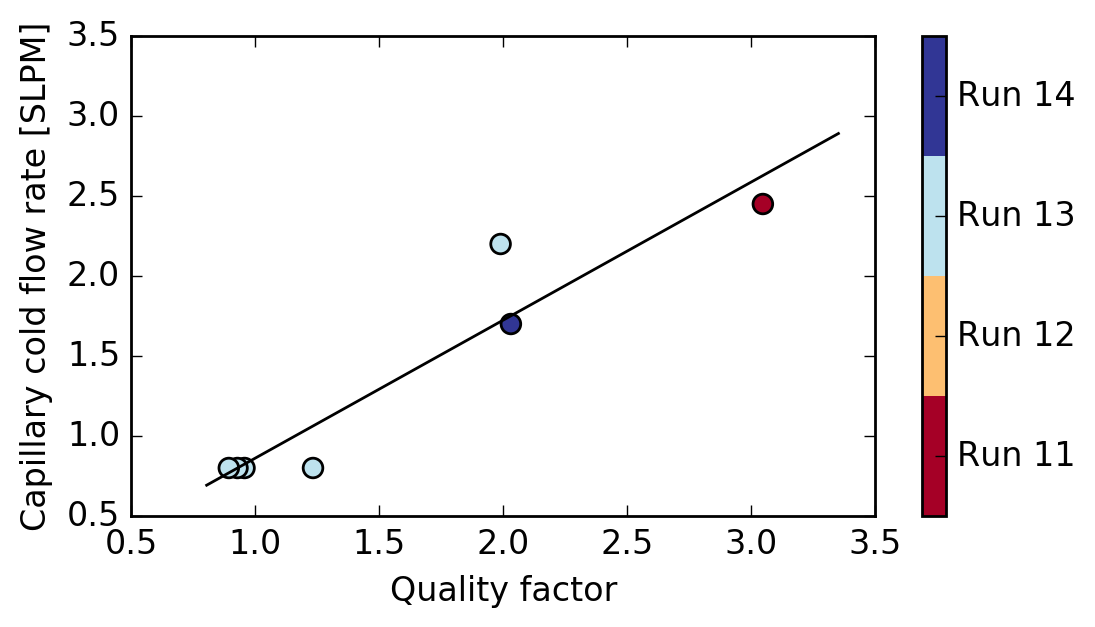
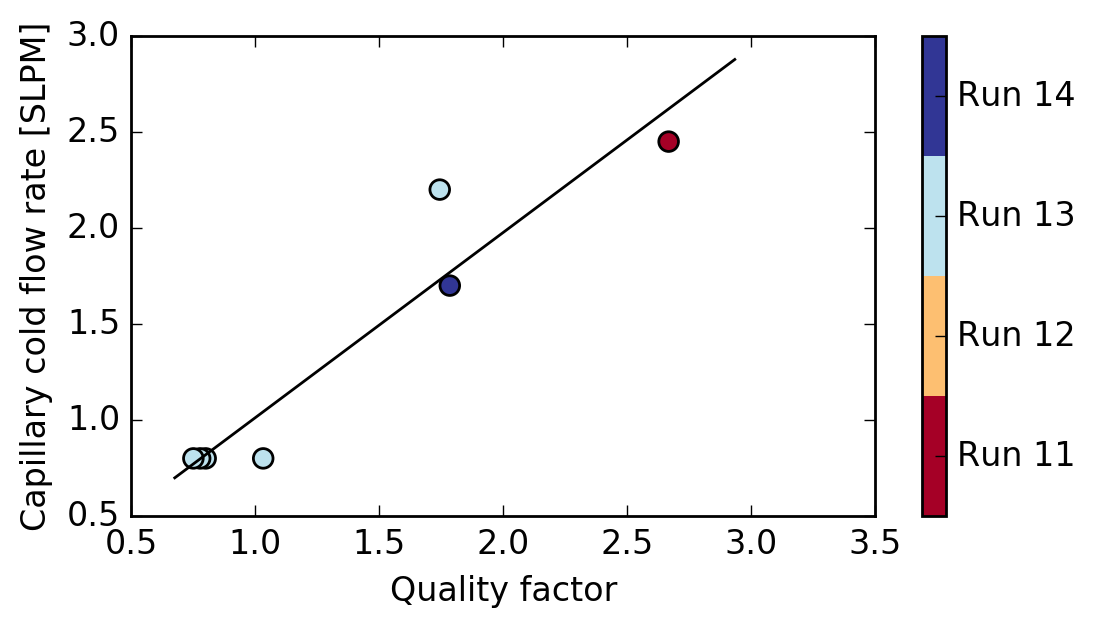
cleaning up text

diff --git a/latex/capillary.tex b/latex/capillary.tex
@@ -470,22 +470,22 @@ Finally, we note that an experimental effort that accurately maps cold flow rate
 \subsection{Quality factor}
 \label{sec:qf}
 
-The relation between warm flow impedance and superfluid flow presented above can be useful. However, we need to be able to gauge capillary health with the flight cryostat parked at 80\,K just before we intend to fill the main tank with helium. Here, things get a bit more complicated because the temperature profile of the capillaries, and therefore the temperature of the main tank and the superfluid tank have a non-negligible effect on the outcome of any flow test. Of course, our flow tests are performed by measuring pressure rise in a 300\,K volume that is isobaric to another volume wherein gas resides at a much lower temperature. All of this information should somehow be factored into physically motivated estimator that correlates with measured superfluid flow rates.
+The relation between warm flow impedance and superfluid flow presented above can be useful. However, we need to be able to gauge capillary health with the flight cryostat parked at 80\,K just before we intend to fill the main tank with helium. Here, things get a bit more complicated because the temperature profile of the capillaries, and therefore the temperature of the main tank and the superfluid tank are expected to have a non-negligible effect on the outcome of any flow test. Of course, our flow tests are performed by measuring pressure rise in a 300\,K volume that is isobaric to another volume wherein gas (presumably) resides at a much lower temperature. All of this information should somehow be factored into physically motivated estimator that correlates with measured superfluid flow rates with the cryostat at equilibrium temperatures.
 
 Unfortunately, we have limited data that we can justify using as a training set for our model. Only data from runs 11, 13, and 14 are suitable for this purpose. Using those data, we derive a dimensionless quality factor, $Q$, that scales linearly with observed superfluid flow. The physically motivated parametrization goes as
 \begin{align}
 Q &\equiv \frac{\eta (T_\mrm{cap})}{\Delta P} \frac{V_\mrm{SFT}+V_\mrm{man}}{T_\mrm{eff}} \left( \frac{d p}{d t} \right), \\
 T_\mrm{eff} &\equiv \frac{\alpha T_\mrm{SFT}+T_\mrm{room}}{1+\alpha},
 \end{align}
-where $V_\mrm{SFT}$ and $V_\mrm{man}$ represent the volume of the superfluid tank and the outside manifold, respectively, $\Delta P$ is the pressure differential between the main tank and superfluid tank, $\eta$ is the effective dynamic viscosity of the gas traveling through capillaries at temperature $T_\mrm{cap}$, $T_\mrm{SFT}$ is the average temperature of the superfluid tank, $T_\mrm{room}$ is the room temperature, and $(d p/d t)$ is the rate of pressure increase in the superfluid tank during the flow test. Finally, $\alpha$ is a parameter that we use to fit our model to the realized behavior. In our system, we find that setting $\alpha \approx 0.5$ maximizes the correlation between $Q$ and realized flow rates.
+where $V_\mrm{SFT}$ and $V_\mrm{man}$ represent the volume of the superfluid tank and the outside manifold, respectively, $\Delta P$ is the pressure differential between the main tank and superfluid tank, $\eta$ is the effective dynamic viscosity of the gas traveling through capillaries at temperature $T_\mrm{cap}$, $T_\mrm{SFT}$ is the average temperature of the superfluid tank, $T_\mrm{room}$ is the room temperature, and $(d p/d t)$ is the rate of pressure increase in the superfluid tank during the flow test. Finally, $\alpha$ is a parameter that we use to fit our model to the realized behavior. In our system, we find that setting $\alpha \approx 0.2$ maximizes the correlation between $Q$ and realized flow rates (see further discussion in Section \ref{sec:qmotivation}).
 
 Figure \ref{fig:quality_factor} shows the superfluid flow rate as a function of the quality factor as calculated from 80\,K flow tests. On average, the quality factor mirrors the realized flow rates. This relationship should hold for future cooldowns as long as the warm flow impedance of the capillary assembly stays within the range that we have probed so far. The best fit linear relationship is 
 \begin{equation}
-f_\mrm{SFT} = 0.863 \times Q \quad [\mrm{SLPM}].
+f_\mrm{SFT} = 0.965 \times Q \quad [\mrm{SLPM}].
 \end{equation}
 By calculating the quality factor, we can forecast the cooling power of the capillary system and determine whether the cryostat is ready to be filled with liquid helium.\footnote{The initial helium fill is time consuming. The process normally starts in the early morning and is rarely over at a reasonable hour. The ability to quickly ascertain the health of the capillaries is essential.}
 
-Finally, we note that the quality factor for runs 14, 15, 16, and Run 2 in the new flight cryostat was measured to be 1.96, 2.10, 1.92, and 1.66, respectively. This corresponds to a superfluid flow rate of 1.7, 1.8, 1.7, and 1.4\,SLPM, respectively. An equilibrium flow rate of 1.4\,SLPM corresponds to a cooling power of 47\,mW. This doesn't leave much margin for error.
+Finally, we note that the quality factor for runs 14, 15, 16, and Run 2 in the new flight cryostat was measured to be 1.93, 2.13, 1.77, and 1.66, respectively. This corresponds to a superfluid flow rate of 1.9, 2.1, 1.7, and 1.6\,SLPM, respectively. An equilibrium flow rate of 1.6\,SLPM corresponds to a cooling power of 54\,mW. This doesn't leave much margin for error.
 
 \begin{figure*}[t]
 \begin{center}
@@ -496,12 +496,13 @@ Finally, we note that the quality factor for runs 14, 15, 16, and Run 2 in the n
 \end{figure*} 
 
 \subsection{Rough motivation for validity of quality factor}
+\label{sec:qmotivation}
 
 For a fixed volume and temperature, the ideal gas equation tells us that 
 \begin{equation}
 \frac{dp}{dt} = \frac{dn}{dT} \left(\frac{RT}{V} \right),
 \end{equation}
-where $R = 8.31\,\mrm{J/K/mole}$ is the gas constant. Since the molecular flow through the capillaries is filling two isobaric volumes, the SFT and the outside manifold, we know that the pressure in the two volumes is equal, $p_1(t)=p_2(t)$. This also means that for any time $t$
+where $R = 8.31\,\mrm{J/K/mole}$ is the gas constant. Since the molecular flow through the capillaries is filling two isobaric volumes, the SFT and the outside manifold, we know that the pressure in the two volumes is equal, $p_1(t)=p_2(t)$ (neglecting any small flow from the SFT to the manifold). This also means that for any time $t$
 \begin{equation}
 \frac{n_1 (t) RT_1}{V_1} = \frac{n_2 (t) RT_2}{V_2}.
 \end{equation}
@@ -511,12 +512,12 @@ From this we can see that
 \end{equation}
 and therefore
 \begin{align}
-\frac{d n}{dt} &= \frac{d}{dt}(n_1+n_2) \nonumber \\ 
-&= \left( 1 + \frac{V_1T_2}{V_2T_1} \right) \frac{dn_2}{dt} \nonumber \\
-&= \left( \frac{V_2}{RT_2} + \frac{V_1}{RT_1} \right) \frac{dp}{dt}
+\frac{d n}{dt} &= \frac{d}{dt}(n_1+n_2), \nonumber \\ 
+&= \left( 1 + \frac{V_1T_2}{V_2T_1} \right) \frac{dn_2}{dt}, \nonumber \\
+&= \left( \frac{V_2}{RT_2} + \frac{V_1}{RT_1} \right) \frac{dp}{dt}.
 \label{eq:dndt}
 \end{align}
-where in the last step we simply used the fact that
+Where in the last step we simply used the fact that
 \begin{equation}
 \frac{dn_2}{dt} = \frac{V_2}{RT_2} \frac{dp_2}{dt}.
 \end{equation}
@@ -527,9 +528,9 @@ Q \frac{\Delta P}{\eta} = \left(\frac{V_1}{RT_1} + \frac{V_2}{RT_2} \right) \fra
 \end{equation}
 where $Q$ is some constant with strange units. Rearranging, we arrive at the following expression
 \begin{equation}
-Q = \frac{\eta }{\Delta P} \left( \frac{V_\mrm{SFT}}{RT_\mrm{SFT}}+\frac{V_\mrm{man}}{RT_\mrm{man}} \right) \left( \frac{d p}{d t} \right).
+Q = \frac{\eta }{\Delta P} \left( \frac{V_\mrm{SFT}}{RT_\mrm{SFT}}+\frac{V_\mrm{man}}{RT_\mrm{man}} \right) \left( \frac{d p}{d t} \right),
 \end{equation}
-where we have assigned the indices 1 and 2 to the SFT and manifold, respectively. This expression seems physically motivated, but unfortunately, it doesn't seem to fit our data very well. Instead, we use a slightly different version, namely
+where we have assigned the indices 1 and 2 to the SFT and manifold, respectively. This expression seems physically motivated, but unfortunately, it doesn't seem to fit our data very well. Instead, we find that a slightly different version works much better, namely
 \begin{equation}
 Q = \frac{\eta }{\Delta P}\frac{V_\mrm{SFT}+V_\mrm{man}}{RT_\mrm{eff}} \left( \frac{d p}{d t} \right),
 \label{eq:q}
@@ -538,7 +539,7 @@ with
 \begin{equation}
 T_\mrm{eff} \equiv \frac{\alpha T_\mrm{SFT}+T_\mrm{room}}{1+\alpha}.
 \end{equation}
-We find that a very large value of $\alpha$ tends to yield the best agreement with observations, suggesting that the effective temperature that we should use in the above expression is that of the SFT. 
+We find that a relatively small value of $\alpha$ tends to yield the best agreement with observations, suggesting that the effective temperature that we should use in the above expression is that of the manifold (close to 300\,K). Similar analysis suggests that the temperature used for calculating the effective dynamic viscosity should be that of the superfluid tank and not some geometrical average of the temperature of the main tank and superfluid tank.
 
 %, and assumed that there exists a temperature  $T_\mrm{eff}$ such that
 %\begin{equation}
@@ -555,7 +556,7 @@ When comparing flow through two capillary systems with different physical proper
 
 %Thermometers along the superfluid tank allow us to monitor the temperature profile of the superfluid tank, and to some extent, gauge the superfluid liquid level inside the tank (see Figure~\ref{fig:sft_hist}). %The equilibrium flow rate is continuously monitored using flow meters calibrated for low flow rates which we install on the exhaust of our scroll pumps.\footnote{\textit{Omega Engineering Inc.}, Stamford, CT.}
 
-Thermometers along the superfluid tank allows us to monitor the temperature profile of the superfluid tank and to some extent gauge the superfluid liquid level inside the tank. Measurements show that the capillary box is at an elevated temperature with respect to the rest of the superfluid assembly even though it is at the lowest gravitational potential. We have also observe periodic temperature oscillations at 10-100~mHz which have hitherto not been given a good explanation.
+Thermometers along the superfluid tank allows us to monitor the temperature profile of the superfluid tank and to some extent gauge the superfluid liquid level inside the tank (see Figure \ref{fig:sft_hist}). Measurements show that the capillary box is at an elevated temperature with respect to the rest of the superfluid assembly even though it is at the lowest gravitational potential. We have also observe periodic temperature oscillations at 10-100~mHz which have hitherto not been given a good explanation.
 
 \begin{figure*}[t]
 \begin{center}
